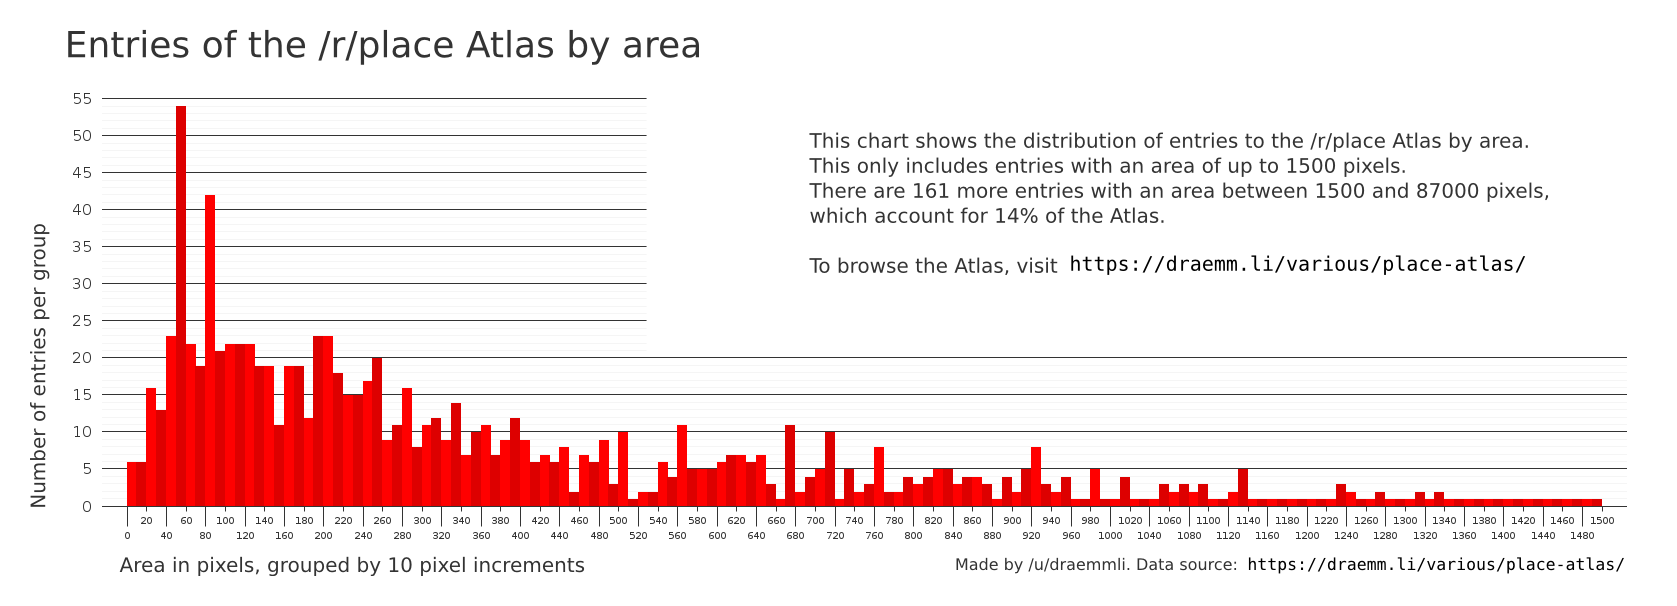
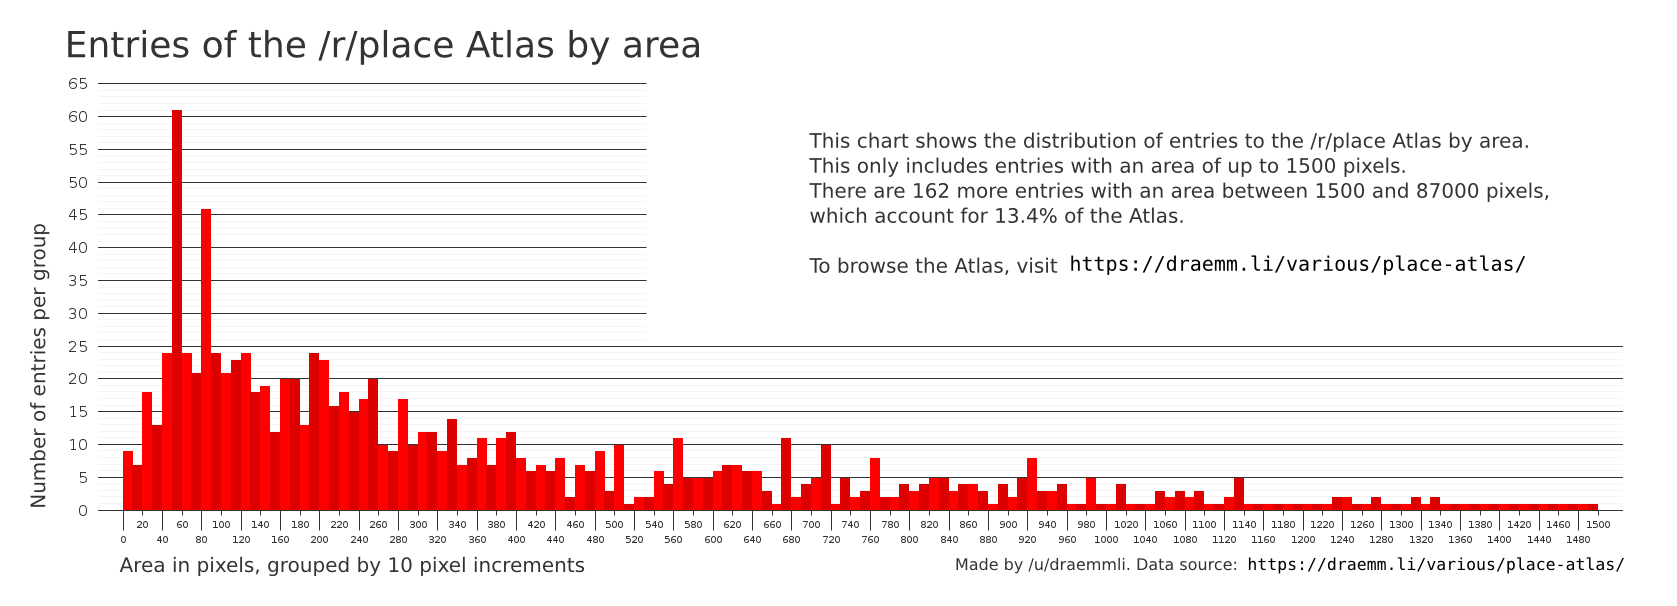
Fix some details on the graph generated by stats.js

Changed region(s): [[0.031, 0.1782, 0.9612, 0.8911], [0.5891, 0.3267, 0.7132, 0.3861], [0.031, 0.1782, 0.062, 0.2079]]

diff --git a/web/index.html b/web/index.html
@@ -164,20 +164,18 @@
 		
 
 
-<!--
 		<script type="text/javascript" src="./_js/pointInPolygon.js?version=1.0"></script>
 		<script type="text/javascript" src="./_js/atlas.js?version=1.0.50"></script>
 		<script type="text/javascript" src="./_js/view.js?version=1.0.4"></script>
 		<script type="text/javascript" src="./_js/overlap.js?version=1.0.4"></script>
 		<script type="text/javascript" src="./_js/draw.js?version=1.0.3"></script>
 		<script type="text/javascript" src="./_js/main.js?version=1.0.3"></script>
--->
 		
-<!--
 		<script type="text/javascript" src="./_js/stats.js?version=1.0.0"></script>
--->
 
+<!--
 		<script type="text/javascript" src="./_js/minified.js?version=1.0.99"></script>
+-->
 
 		
 	</body>

diff --git a/web/_js/stats.js b/web/_js/stats.js
@@ -112,7 +112,7 @@ ctx.textBaseline = "middle";
 
 var linesDistance = 1;
 
-for(var i = 0; i <= Math.ceil(mostCounts/linesDistance); i++){
+for(var i = 0; i <= Math.ceil((mostCounts/linesDistance)/5)*5; i++){
 	ctx.beginPath();
 	ctx.moveTo(
 		 50
@@ -227,7 +227,7 @@ console.log("Median area: "+areas[~~(areas.length/2)]);
 
 console.log("Average area: "+(areasSum/atlas.length));
 
-var topCount = 10;
+var topCount = 50;
 console.log("The "+topCount+" largest entries:");
 
 var outstring = "";
